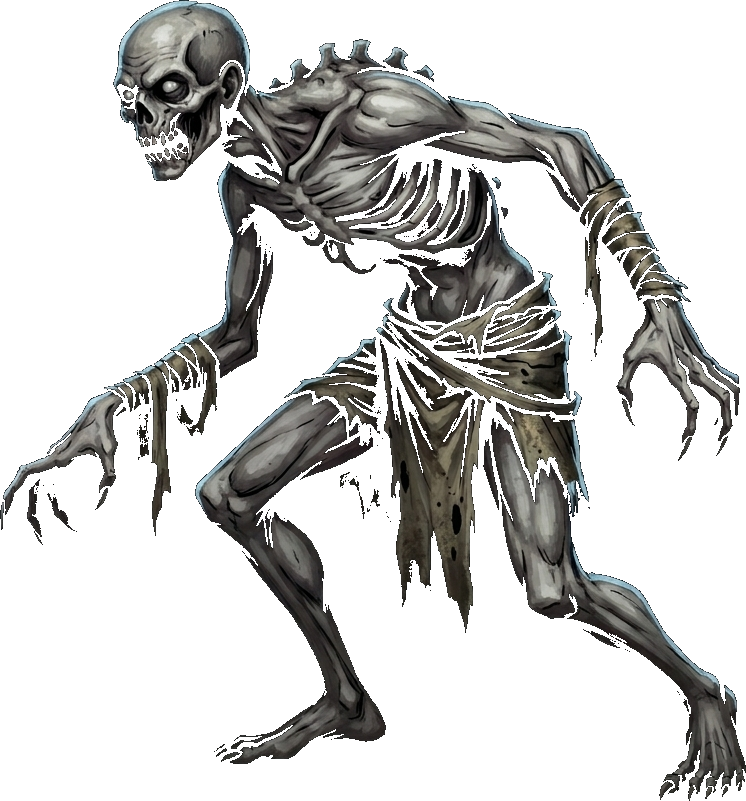
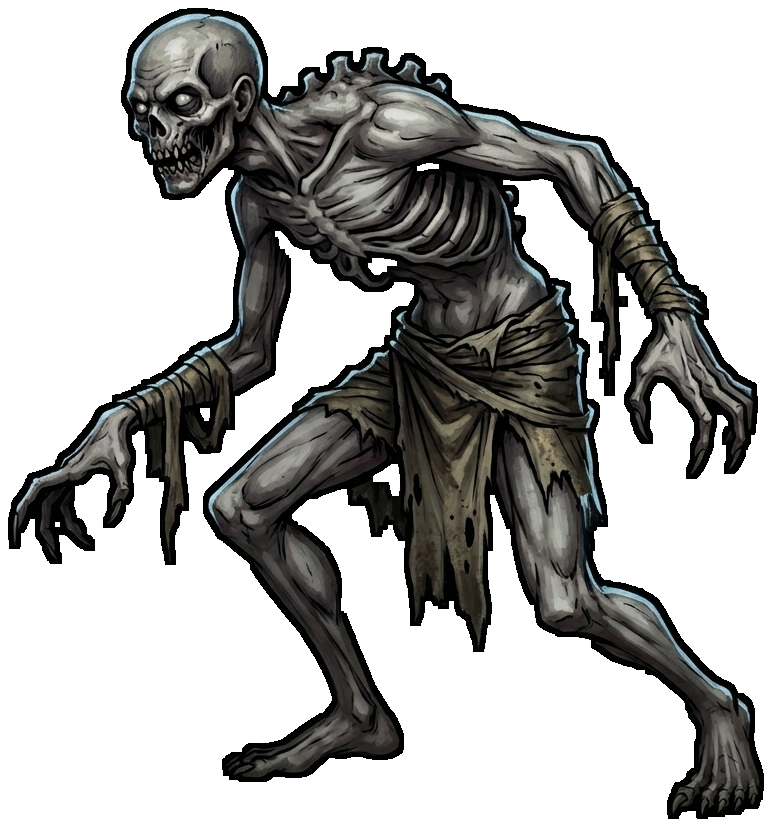
Add varied Stage 1-1 enemy patrol and dedicated Gorgoroth boss sprite in new inked style

Changed region(s): [[0.0, 0.0, 1.0, 0.9988]]

diff --git a/lib/shared/data/starter_brigades.dart b/lib/shared/data/starter_brigades.dart
@@ -1095,26 +1095,62 @@ class StarterBrigades {
     if (chapter == 1) {
       switch (stageNumber) {
         // Stage 1-1: Ashen Outpost (Ashen Trail Desolation)
-        // Solo Commander opening tutorial skirmish: 1 Captive Rotting Husk to teach basic attacks & skills
+        // Varied opening perimeter patrol in our dark-fantasy inked style: Vanguard Huskarl, Ashfire Skirmisher, & Pyre Sentry
         case 1:
           return [
             const UnitEntity(
-              id: 's1_husk_01',
-              speciesId: 'rotting_husk',
-              name: 'Captive Rotting Husk',
+              id: 's1_huskarl_01',
+              speciesId: 'ashen_huskarl',
+              name: 'Ashen Outpost Huskarl',
               generation: 1,
               archetype: Archetype.juggernaut,
               slot: FormationSlot.front1,
               level: 1,
               maxLevel: 10,
-              currentHp: 780,
-              maxHp: 780,
-              attack: 85,
-              defense: 65,
-              speed: 95,
+              currentHp: 320,
+              maxHp: 320,
+              attack: 46,
+              defense: 35,
+              speed: 88,
               nativeTraitId: 'iron_bastion',
               lineageAncestors: [],
-              customAvatarAsset: 'assets/images/rotting_husk_g1.png',
+              customAvatarAsset: 'assets/images/ashen_huskarl.png',
+            ),
+            const UnitEntity(
+              id: 's1_skirmisher_01',
+              speciesId: 'ashfire_skirmisher',
+              name: 'Ashfire Skirmisher',
+              generation: 1,
+              archetype: Archetype.skirmisher,
+              slot: FormationSlot.front2,
+              level: 1,
+              maxLevel: 10,
+              currentHp: 250,
+              maxHp: 250,
+              attack: 50,
+              defense: 22,
+              speed: 105,
+              nativeTraitId: 'vicious_strike',
+              lineageAncestors: [],
+              customAvatarAsset: 'assets/images/ashfire_skirmisher.png',
+            ),
+            const UnitEntity(
+              id: 's1_arbalest_01',
+              speciesId: 'pyre_sentry_arbalest',
+              name: 'Pyre Sentry Arbalest',
+              generation: 1,
+              archetype: Archetype.marksman,
+              slot: FormationSlot.back1,
+              level: 1,
+              maxLevel: 10,
+              currentHp: 210,
+              maxHp: 210,
+              attack: 52,
+              defense: 18,
+              speed: 96,
+              nativeTraitId: 'piercing_arrow',
+              lineageAncestors: [],
+              customAvatarAsset: 'assets/images/pyre_sentry_arbalest.png',
             ),
           ];
 
@@ -1562,7 +1598,7 @@ class StarterBrigades {
             ),
             const UnitEntity(
               id: 's9_husk_01',
-              speciesId: 'rotting_husk',
+              speciesId: 'ashen_huskarl',
               name: 'Sarcophagus Dreadguard',
               generation: 2,
               archetype: Archetype.juggernaut,
@@ -1576,7 +1612,7 @@ class StarterBrigades {
               speed: 85,
               nativeTraitId: 'iron_bastion',
               lineageAncestors: [],
-              customAvatarAsset: 'assets/images/rotting_husk_g1.png',
+              customAvatarAsset: 'assets/images/ashen_huskarl.png',
             ),
             const UnitEntity(
               id: 's9_flayer_01',
@@ -2031,7 +2067,7 @@ class StarterBrigades {
       const UnitEntity(
         id: 'gorgoroth_boss',
         speciesId: 'gorgoroth_flayed',
-        name: 'Gorgoroth the Flayed',
+        name: 'Gorgoroth, Sovereign of the Pyre',
         generation: 3,
         archetype: Archetype.juggernaut,
         slot: FormationSlot.front1,
@@ -2044,12 +2080,12 @@ class StarterBrigades {
         speed: 85,
         nativeTraitId: 'blood_sovereign',
         lineageAncestors: ['Primordial Titan', 'Gorgoroth'],
-        customAvatarAsset: 'assets/images/flayed_butcher.png',
+        customAvatarAsset: 'assets/images/gorgoroth_the_flayed.png',
       ),
       const UnitEntity(
         id: 'cinder_witch',
         speciesId: 'cinder_witch',
-        name: 'Cinder Witch',
+        name: 'Cinder Cultist',
         generation: 2,
         archetype: Archetype.occultist,
         slot: FormationSlot.back1,
@@ -2062,12 +2098,12 @@ class StarterBrigades {
         speed: 110,
         nativeTraitId: 'pyre_infusion',
         lineageAncestors: [],
-        customAvatarAsset: 'assets/images/blood_scribe_idle.png',
+        customAvatarAsset: 'assets/images/blood_initiate.png',
       ),
       const UnitEntity(
         id: 'pyre_zealot',
-        speciesId: 'grave_ghoul',
-        name: 'Pyre Zealot',
+        speciesId: 'ashfire_skirmisher',
+        name: 'Ashfire Reaver',
         generation: 2,
         archetype: Archetype.assassin,
         slot: FormationSlot.front2,
@@ -2080,7 +2116,7 @@ class StarterBrigades {
         speed: 105,
         nativeTraitId: 'vicious_strike',
         lineageAncestors: [],
-        customAvatarAsset: 'assets/images/Crypt Stalkers/CRY-01-VAN-G1 Tombstone Sentinel.png',
+        customAvatarAsset: 'assets/images/ashfire_skirmisher.png',
       ),
     ];
   }
@@ -2327,12 +2363,12 @@ class StarterBrigades {
         ),
       ];
     }
-    // Chapter 1 Boss: Gorgoroth the Unbroken
+    // Chapter 1 Boss: Gorgoroth, Sovereign of the Ashen Pyre
     return [
       const UnitEntity(
         id: 'boss_gorgoroth',
-        speciesId: 'chapter_titan',
-        name: 'Gorgoroth the Unbroken',
+        speciesId: 'gorgoroth_flayed',
+        name: 'Gorgoroth, Sovereign of the Pyre',
         generation: 3,
         archetype: Archetype.juggernaut,
         slot: FormationSlot.front1,
@@ -2345,12 +2381,12 @@ class StarterBrigades {
         speed: 100,
         nativeTraitId: 'blood_sovereign',
         lineageAncestors: [],
-        customAvatarAsset: 'assets/images/flayed_butcher.png',
+        customAvatarAsset: 'assets/images/gorgoroth_the_flayed.png',
       ),
       const UnitEntity(
         id: 'boss_guard_1',
-        speciesId: 'grave_ghoul',
-        name: 'Pyre Zealot Vanguard',
+        speciesId: 'ashfire_skirmisher',
+        name: 'Ashfire Reaver Vanguard',
         generation: 2,
         archetype: Archetype.assassin,
         slot: FormationSlot.front2,
@@ -2363,25 +2399,25 @@ class StarterBrigades {
         speed: 115,
         nativeTraitId: 'vicious_strike',
         lineageAncestors: [],
-        customAvatarAsset: 'assets/images/grave_ghoul_g1.png',
+        customAvatarAsset: 'assets/images/ashfire_skirmisher.png',
       ),
       const UnitEntity(
         id: 'boss_priest',
-        speciesId: 'cinder_witch',
-        name: 'Pyre Acolyte',
+        speciesId: 'pyre_sentry_arbalest',
+        name: 'Pyre Sentry Marksman',
         generation: 2,
-        archetype: Archetype.support,
+        archetype: Archetype.marksman,
         slot: FormationSlot.back1,
         level: 20,
         maxLevel: 35,
-        currentHp: 1000,
-        maxHp: 1000,
-        attack: 120,
-        defense: 90,
+        currentHp: 980,
+        maxHp: 980,
+        attack: 135,
+        defense: 85,
         speed: 105,
-        nativeTraitId: 'sanguine_mend',
+        nativeTraitId: 'piercing_arrow',
         lineageAncestors: [],
-        customAvatarAsset: 'assets/images/blood_initiate.png',
+        customAvatarAsset: 'assets/images/pyre_sentry_arbalest.png',
       ),
     ];
   }

diff --git a/lib/features/campaign/linear_campaign_stage.dart b/lib/features/campaign/linear_campaign_stage.dart
@@ -69,15 +69,15 @@ class LinearCampaignStage {
       stageNumber: 1,
       stageCode: '1-1',
       name: 'Ashen Outpost',
-      description: 'First defensive line breached under scorching ember winds. Subdue and salvage a captive vanguard husk.',
+      description: 'First defensive line breached under scorching ember winds. Rout the Ashen Huskarl, Ashfire Skirmisher, and Pyre Sentry.',
       environmentTitle: 'Perimeter Boundary • Depth 1',
       type: CampaignNodeType.skirmish,
       rewardIchor: 60,
       rewardOre: 10,
-      enemyAffinities: [Archetype.juggernaut],
+      enemyAffinities: [Archetype.juggernaut, Archetype.skirmisher, Archetype.marksman],
       hazard: CampaignHazardType.ashenEmberStorm,
       backgroundAsset: 'assets/images/ashen_trail_desolation.jpg',
-      thumbnailAsset: 'assets/images/rotting_husk_g1.png',
+      thumbnailAsset: 'assets/images/ashen_huskarl.png',
     ),
     LinearCampaignStage(
       stageNumber: 2,
@@ -194,8 +194,8 @@ class LinearCampaignStage {
     LinearCampaignStage(
       stageNumber: 10,
       stageCode: '1-10',
-      name: 'Gorgoroth the Flayed',
-      description: 'The Chapter World Titan towering over the Ashen Rift in a raging fire vortex.',
+      name: 'Gorgoroth, Sovereign of the Pyre',
+      description: 'The Slag-Armored Chapter Warlord towering over the Ashen Rift in a raging fire vortex.',
       environmentTitle: 'Titan Throne • CHAPTER I CLIMAX',
       type: CampaignNodeType.boss,
       rewardIchor: 500,
@@ -204,7 +204,7 @@ class LinearCampaignStage {
       enemyAffinities: [Archetype.juggernaut, Archetype.occultist, Archetype.assassin, Archetype.marksman],
       hazard: CampaignHazardType.ashenEmberStorm,
       backgroundAsset: 'assets/images/volcanic_chasm_battlefield.jpg',
-      thumbnailAsset: 'assets/images/flayed_butcher.png',
+      thumbnailAsset: 'assets/images/gorgoroth_the_flayed.png',
       isBoss: true,
     ),
   ];

diff --git a/lib/features/combat_spatial/models/spatial_combat_models.dart b/lib/features/combat_spatial/models/spatial_combat_models.dart
@@ -569,7 +569,16 @@ class CombatUnitState {
     }
     final key = '${id.toLowerCase()}_${templateId.toLowerCase()}';
     if (key.contains('gorgoroth') || key.contains('chapter_titan') || key.contains('world_titan')) {
-      return 'assets/images/flayed_butcher.png';
+      return 'assets/images/gorgoroth_the_flayed.png';
+    }
+    if (key.contains('huskarl') || key.contains('rotting_husk') || key.contains('ash_raider')) {
+      return 'assets/images/ashen_huskarl.png';
+    }
+    if (key.contains('ashfire_skirmisher')) {
+      return 'assets/images/ashfire_skirmisher.png';
+    }
+    if (key.contains('pyre_sentry')) {
+      return 'assets/images/pyre_sentry_arbalest.png';
     }
     if (key.contains('ash_sculptor') || key.contains('grave_warden')) {
       return 'assets/images/ash_sculptor_idle.png';
@@ -617,7 +626,7 @@ class CombatUnitState {
       return 'assets/images/blood_initiate.png';
     }
     if (key.contains('cinder_witch')) {
-      return 'assets/images/Crypt Stalkers/CRY-04-MAG-G1 Blood Scribe.png';
+      return 'assets/images/blood_initiate.png';
     }
     if (key.contains('ghoul')) {
       return 'assets/images/grave_ghoul_g1.png';
@@ -635,7 +644,7 @@ class CombatUnitState {
       return 'assets/images/ironclad_dreadnought.png';
     }
     if (key.contains('pyre_zealot')) {
-      return 'assets/images/Crypt Stalkers/CRY-01-VAN-G1 Tombstone Sentinel.png';
+      return 'assets/images/ashfire_skirmisher.png';
     }
     if (key.contains('valeria')) {
       return 'assets/images/Ash Legion/lady_valeria_g1.png';

diff --git a/test/features/combat_spatial/spatial_combat_engine_test.dart b/test/features/combat_spatial/spatial_combat_engine_test.dart
@@ -2,6 +2,7 @@ import 'package:flutter_test/flutter_test.dart';
 import 'package:ashen_crucible/features/combat_spatial/models/spatial_combat_models.dart';
 import 'package:ashen_crucible/features/combat_spatial/spatial_combat_engine.dart';
 import 'package:ashen_crucible/shared/models/unit_entity.dart';
+import 'package:ashen_crucible/shared/data/starter_brigades.dart';
 import 'package:ashen_crucible/core/combat_math.dart';
 
 void main() {
@@ -290,6 +291,26 @@ void main() {
       customEngine.executeUnitAction(footmanState, actionType: 'basic');
       expect(raiderState.hp, lessThan(hpDuringCd));
       expect(footmanState.signatureCooldown, equals(2));
+    });
+
+    test('Stage 1-1 spawns varied new-style enemy patrol and Chapter 1 Boss uses dedicated Gorgoroth sprite', () {
+      final stage1Enemies = StarterBrigades.createEnemiesForStage(chapter: 1, stageNumber: 1);
+      expect(stage1Enemies.length, equals(3));
+      expect(
+        stage1Enemies.map((e) => e.customAvatarAsset),
+        containsAll([
+          'assets/images/ashen_huskarl.png',
+          'assets/images/ashfire_skirmisher.png',
+          'assets/images/pyre_sentry_arbalest.png',
+        ]),
+      );
+
+      final ch1BossSquad = StarterBrigades.createChapterBossEnemies(1);
+      expect(ch1BossSquad.first.customAvatarAsset, equals('assets/images/gorgoroth_the_flayed.png'));
+      expect(
+        engine.enemyUnits.firstWhere((u) => u.id == 'gorgoroth_boss').assetPath,
+        equals('assets/images/gorgoroth_the_flayed.png'),
+      );
     });
   });
 }

diff --git a/lib/features/campaign/campaign_map_generator.dart b/lib/features/campaign/campaign_map_generator.dart
@@ -173,15 +173,15 @@ class CampaignMapGenerator {
         depth: 4,
         verticalRatio: 0.50,
         type: CampaignNodeType.boss,
-        name: 'Gorgoroth the Flayed',
-        description: 'The Chapter World Titan towering over the Ashen Rift in a raging fire vortex.',
+        name: 'Gorgoroth, Sovereign of the Pyre',
+        description: 'The Slag-Armored Chapter Warlord towering over the Ashen Rift in a raging fire vortex.',
         nextNodeIds: [],
         rewardIchor: 800,
         rewardOre: 120,
         rewardSigils: 2,
         scoutedAffinities: [Archetype.juggernaut, Archetype.occultist, Archetype.assassin],
         hazard: CampaignHazardType.ashenEmberStorm,
-        customThumbnailAsset: 'assets/images/flayed_butcher.jpg',
+        customThumbnailAsset: 'assets/images/gorgoroth_the_flayed.png',
       ),
     ];
   }

diff --git a/lib/features/combat_spatial/spatial_battle_screen.dart b/lib/features/combat_spatial/spatial_battle_screen.dart
@@ -679,6 +679,8 @@ class _SpatialBattleScreenState extends State<SpatialBattleScreen> with TickerPr
         p.contains('flayed_butcher') ||
         p.contains('ashfire_skirmisher') ||
         p.contains('pyre_sentry_arbalest') ||
+        p.contains('ashen_huskarl') ||
+        p.contains('gorgoroth_the_flayed') ||
         p.contains('sanguine_flayer') ||
         p.contains('tombstone sentinel') ||
         p.contains('magma_golem') ||

diff --git a/lib/features/campaign/campaign_map_screen.dart b/lib/features/campaign/campaign_map_screen.dart
@@ -1510,7 +1510,7 @@ class _CampaignMapScreenState extends State<CampaignMapScreen> {
         return 'assets/images/ironclad_dreadnought.jpg';
       case 1:
       default:
-        return 'assets/images/flayed_butcher.jpg';
+        return 'assets/images/gorgoroth_the_flayed.png';
     }
   }
 
